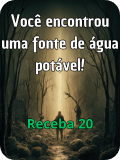
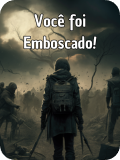
Baralho implementado (falta fazer cartas)

diff --git a/baralho.py b/baralho.py
@@ -1,18 +1,71 @@
+import pygame
+from utilitario import *
+import random
 from carta import *
-class Baralho:
+from cartaDinheiro import *
+from cartaDistracao import *
+from cartaTeletransporte import *
 
+class Baralho(pygame.sprite.Sprite):
+    
     _instance = None #Singleton
-
-    def __init__(self):
-        self.cartas = []
 
     @classmethod #copiei da internet
     def instance(cls):
         if cls._instance is None:
             cls._instance = cls()
         return cls._instance
-    
-    def sorteiaCarta(self):
-        #cartaSprite.trocar_carta()
-        if len(self.cartas)>0:
-            self.cartas[0].aplicarEfeito()
+
+
+    def init(self):
+        super().__init__()
+        self.imagem_capa = get_cartacapa()  # Carrega a imagem da capa da carta
+        # Lista com os números das 20 cartas
+        self.imagens_cartas = list(range(1, 21))
+        self.image = self.imagem_capa
+        self.rect = self.image.get_rect()
+        self.rect.center = (240, 510)  # Posição da carta na tela do jogo
+        self.mostrando_capa = True
+        self.image = pygame.transform.smoothscale(self.image, (140,200))
+
+        # Lista para armazenar os números das cartas já selecionadas
+        self.cartas_selecionadas = []
+        self.custosCartas = [100,150,50,40,120,75,25,40,80,-20,-40,-20,-40,-25,-200,-100,-150,-50]
+        self.cartas = []
+        self.cartaAtual = None
+        self.criaCartas()
+
+    def criaCartas(self):
+        for i in range(1,len(self.imagens_cartas)):
+            print(i)
+            if i ==18:
+                newCarta = CartaDistracao(i)
+            elif i ==19:
+                newCarta = CartaTeletransporte(i)
+            else:
+                newCarta = CartaDinheiro(i,self.custosCartas[i])
+            self.cartas.append(newCarta)
+
+    # Método para trocar a carta exibida
+    def sorteia(self):
+        if self.mostrando_capa:
+            # Se a carta exibida for a capa, seleciona uma carta aleatória não selecionada
+            cartas_disponiveis = list(
+                set(self.imagens_cartas) - set(self.cartas_selecionadas))
+            if cartas_disponiveis:  # Verifica se ainda há cartas disponíveis
+                numero_carta = random.choice(cartas_disponiveis)
+                # Adiciona a carta selecionada à lista de cartas selecionadas
+                self.cartas_selecionadas.append(numero_carta)
+                # Carrega a imagem correspondente ao número da carta
+                self.image = get_carta(numero_carta)
+                self.image = pygame.transform.smoothscale(self.image, (140,200))
+                self.mostrando_capa = False  # Muda para mostrar a carta selecionada
+                return self.cartas[numero_carta % len(self.cartas)]
+        else:
+            self.image = self.imagem_capa  # Mostra a capa da carta
+            self.image = pygame.transform.smoothscale(self.image, (140,200))
+            self.mostrando_capa = True  # Muda para mostrar a capa novamente
+            return 0
+    def draw(self, screen):
+        # Método para desenhar a carta na tela
+        screen.blit(self.image, self.rect)

diff --git a/carta.py b/carta.py
@@ -2,41 +2,6 @@ import pygame
 from utilitario import *
 import random
 
-
-class cartaSprite(pygame.sprite.Sprite):
-    def __init__(self):
-        super().__init__()
-        self.imagem_capa = get_cartacapa()  # Carrega a imagem da capa da carta
-        # Lista com os números das 20 cartas
-        self.imagens_cartas = list(range(1, 21))
-        self.image = self.imagem_capa
-        self.rect = self.image.get_rect()
-        self.rect.center = (250, 550)  # Posição da carta na tela do jogo
-        self.mostrando_capa = True
-        # Lista para armazenar os números das cartas já selecionadas
-        self.cartas_selecionadas = []
-
-    # Método para trocar a carta exibida
-    def trocar_carta(self):
-        if self.mostrando_capa:
-            # Se a carta exibida for a capa, seleciona uma carta aleatória não selecionada
-            cartas_disponiveis = list(
-                set(self.imagens_cartas) - set(self.cartas_selecionadas))
-            if cartas_disponiveis:  # Verifica se ainda há cartas disponíveis
-                numero_carta = random.choice(cartas_disponiveis)
-                # Adiciona a carta selecionada à lista de cartas selecionadas
-                self.cartas_selecionadas.append(numero_carta)
-                # Carrega a imagem correspondente ao número da carta
-                self.image = get_carta(numero_carta)
-                self.mostrando_capa = False  # Muda para mostrar a carta selecionada
-        else:
-            self.image = self.imagem_capa  # Mostra a capa da carta
-            self.mostrando_capa = True  # Muda para mostrar a capa novamente
-
-    def draw(self, screen):
-        # Método para desenhar a carta na tela
-        screen.blit(self.image, self.rect)
-
 class Carta:
     def __init__(self, id):
         self.id = id

diff --git a/jogo.py b/jogo.py
@@ -3,7 +3,7 @@ import sys
 from utilitario import *
 from dado import *
 from jogador import Jogador, JogadorSprite
-from carta import *
+from baralho import *
 from jogo import *
 from tabuleiro import *
 from controlador import *
@@ -26,8 +26,8 @@ class jogo:
         self.font = get_fonte_titulo(24)
 
         # Criar uma instância da carta
-        self.cartaSprite = cartaSprite()
-
+        self.baralhoInstance = Baralho.instance()
+        self.baralhoInstance.init()
         self.screen = screen
         self.qtd_jogadores = qtd_jogadores
         self.locked = False
@@ -82,8 +82,6 @@ class jogo:
         roll = sprite_dado.rolar()
         self.tabuleiro.iterarCasas(
             self.currentPlayer, roll)
-        if self.cartaSprite.rect.collidepoint(event.pos):
-            self.cartaSprite.trocar_carta()
 
         # Passa o turno para o próximo jogador
         self.currentPlayerid += 1
@@ -139,10 +137,11 @@ class jogo:
 
 
         self.tabuleiro.exibir_info_casa(self.screen)
+        
         # Desenha o dado na tela
         sprite_dado.draw(self.screen)
 
-        self.cartaSprite.draw(self.screen)
+        self.baralhoInstance.draw(self.screen)
 
         # Atualiza a tela do jogo
         pygame.display.update()
@@ -162,7 +161,7 @@ class jogo:
         for i in range(0,qtd_jogadores):
             if i < qtd_ia:
                 controladores.append(
-                    IA(dificuldadeIA)
+                    IA(dificuldadeIA, self)
                 )
             else:
                 controladores.append(Humano(self))

diff --git a/controladorIA.py b/controladorIA.py
@@ -1,14 +1,29 @@
+import pygame
+import sys
 import random
+
 class IA:
-    def __init__(self, dificuldade):
+    def __init__(self, dificuldade, jogo):
         super().__init__()
         self.dificuldade = dificuldade
+        self.jogo = jogo
         return
 
     def controlar(self, input):
         if input == "Comprar Casa": 
             #dificuldade por emquanto apenas torna IA mais provável a comprar casas
             return random.randint(0,100)+10*self.dificuldade > 50
+        if input == "Espera Click":
+            while True:
+                self.jogo.lock()
+                for event in pygame.event.get():
+                     if event.type == pygame.QUIT:
+                        pygame.quit()
+                        sys.exit()
+                     elif event.type == pygame.KEYDOWN:
+                        if event.key == pygame.K_SPACE:
+                            self.jogo.unlock()
+                            return True
         return False
 
        

diff --git a/controladorHumano.py b/controladorHumano.py
@@ -23,6 +23,17 @@ class Humano:
                         if event.key == pygame.K_n:
                             self.jogo.unlock()
                             return False
+        if input == "Espera Click":
+            while True:
+                self.jogo.lock()
+                for event in pygame.event.get():
+                     if event.type == pygame.QUIT:
+                        pygame.quit()
+                        sys.exit()
+                     elif event.type == pygame.KEYDOWN:
+                        if event.key == pygame.K_SPACE:
+                            self.jogo.unlock()
+                            return True
     def awaitsInput(self):
         #print('Humano')
         return True

diff --git a/terraDeNinguem.py b/terraDeNinguem.py
@@ -1,12 +1,14 @@
 from casa import *
 from baralho import *
 
-
 class TerraDeNinguem(Casa):
    def __init__(self, id, distanceToNext, name):
         super().__init__(id, distanceToNext, name)
       
    def ativarEvento(self, jogador):
       baralhoInstance = Baralho.instance()
-      baralhoInstance.sorteiaCarta()
-      #algo com baralho.
+      carta = baralhoInstance.sorteia()
+      jogador.controlador.controlar("Espera Click")
+      carta.aplicarEfeito(jogador)
+      baralhoInstance.sorteia()
+      return

diff --git a/cartaDinheiro.py b/cartaDinheiro.py
@@ -1,0 +1,12 @@
+import pygame
+from utilitario import *
+import random
+from carta import*
+
+class CartaDinheiro(Carta):
+    def __init__(self, id, valor):
+        self.id = id
+        self.valor = valor
+
+    def aplicarEfeito(self, jogador):
+        jogador.modificarSuprimentos(self.valor)

diff --git a/cartaDistracao.py b/cartaDistracao.py
@@ -1,0 +1,11 @@
+import pygame
+from utilitario import *
+import random
+from carta import*
+
+class CartaDistracao(Carta):
+    def __init__(self, id):
+        self.id = id
+
+    def aplicarEfeito(self, jogador):
+        jogador.ganharCartaEscape()

diff --git a/cartaTeletransporte.py b/cartaTeletransporte.py
@@ -1,0 +1,11 @@
+import pygame
+from utilitario import *
+import random
+from carta import*
+
+class CartaTeletransporte(Carta):
+    def __init__(self, id):
+        self.id = id
+
+    def aplicarEfeito(self, jogador):
+        jogador.encurrala()
